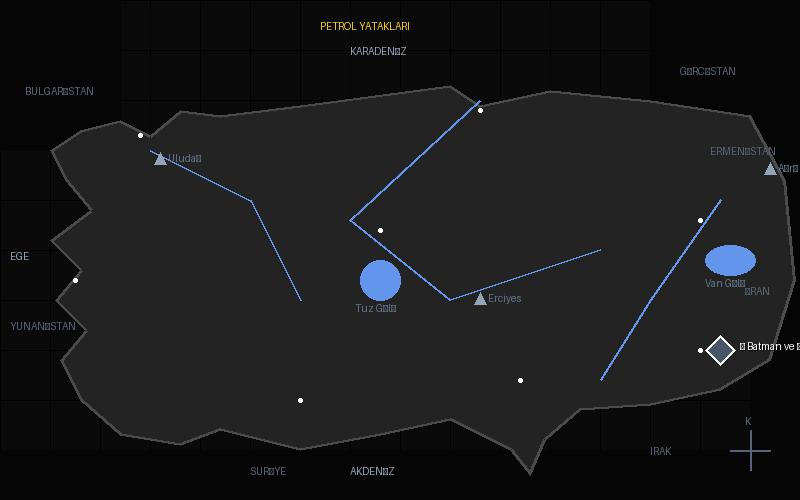
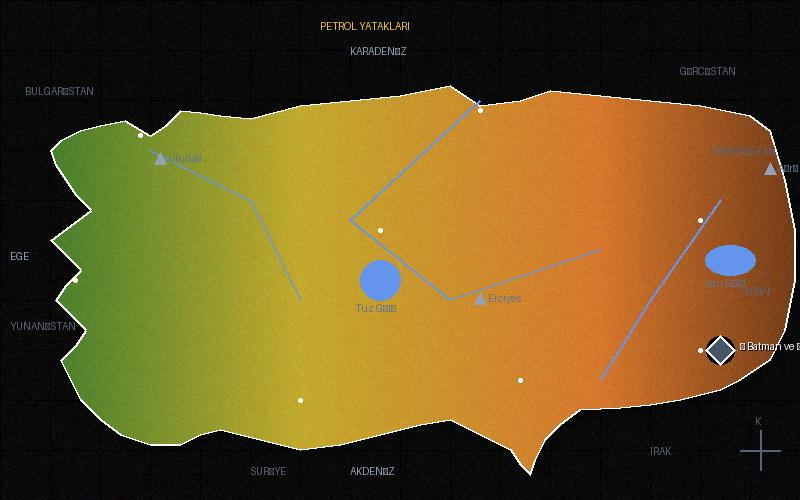
Auto-update maps: 2026-04-03 15:44:46

diff --git a/download_assets.py b/download_assets.py
@@ -1,6 +1,7 @@
 import os
 import random
-from PIL import Image, ImageDraw, ImageFont
+import numpy as np
+from PIL import Image, ImageDraw, ImageFont, ImageFilter
 
 def download_kpss_images():
     # 1. Klasörü oluştur
@@ -14,32 +15,32 @@ def download_kpss_images():
         "tr_nufus.jpg": {
             "label": "NÜFUS YOĞUNLUĞU", "marker": (150, 130), "info": "İstanbul-Kocaeli Çevresi", 
             "type": "circle", "color": (56, 189, 248),
-            "bg_color": (15, 23, 42), "land_color": (30, 41, 59) # Modern Koyu Mavi
+            "bg_color": (15, 23, 42)
         },
         "tr_delta.jpg": {
             "label": "DELTA OVALARI", "marker": (550, 400), "info": "Çukurova Bölgesi", 
             "type": "circle", "color": (34, 197, 94),
-            "bg_color": (10, 20, 15), "land_color": (20, 45, 30) # Doğa Yeşili
+            "bg_color": (10, 20, 15)
         },
         "tr_demir.jpg": {
             "label": "DEMİR MADENİ", "marker": (600, 220), "info": "Sivas-Divriği Çevresi", 
             "type": "square", "color": (249, 115, 22),
-            "bg_color": (25, 15, 15), "land_color": (55, 35, 30) # Pas/Metal Tonu
+            "bg_color": (25, 15, 15)
         },
         "tr_bor.jpg": {
             "label": "BOR REZERVLERİ", "marker": (180, 200), "info": "Güney Marmara-Eskişehir", 
             "type": "square", "color": (234, 179, 8),
-            "bg_color": (20, 20, 30), "land_color": (40, 40, 65) # Kristal Moru
+            "bg_color": (20, 20, 30)
         },
         "tr_petrol.jpg": {
             "label": "PETROL YATAKLARI", "marker": (720, 350), "info": "Batman ve Çevresi", 
             "type": "diamond", "color": (71, 85, 105),
-            "bg_color": (10, 10, 10), "land_color": (35, 35, 35) # Endüstriyel Siyah/Gri
+            "bg_color": (10, 10, 10)
         },
         "tr_iklim.jpg": {
             "label": "KARADENİZ İKLİMİ", "marker": (500, 100), "info": "Kıyı Şeridi Taranmış", 
             "type": "circle", "color": (239, 68, 68),
-            "bg_color": (15, 25, 35), "land_color": (65, 55, 45) # Toprak Tonları
+            "bg_color": (15, 25, 35)
         }
     }
 
@@ -50,14 +51,11 @@ def download_kpss_images():
             "marker": (400, 300), 
             "info": "",
             "bg_color": (15, 23, 42),
-            "land_color": (30, 41, 59)
         })
         
         bg_color = data.get("bg_color", (15, 23, 42))
-        land_color = data.get("land_color", (30, 41, 59))
         neighbor_land_color = tuple(max(0, c - 5) for c in bg_color) # Komşu ülkeler için hafif ton
         grid_color = tuple(max(0, c - 10) for c in bg_color)
-        outline_color = tuple(min(255, c + 40) for c in land_color)
 
         img = Image.new('RGB', (800, 500), color=bg_color) 
         draw = ImageDraw.Draw(img)
@@ -71,6 +69,67 @@ def download_kpss_images():
             small_font = ImageFont.truetype(font_path, 14)
         except:
             title_font = label_font = small_font = ImageFont.load_default()
+
+        # 1. Izgara (Grid)
+        for x in range(0, 800, 50): draw.line([(x, 0), (x, 500)], fill=grid_color, width=1)
+        for y in range(0, 500, 50): draw.line([(0, y), (800, y)], fill=grid_color, width=1)
+
+        # 2. Koordinatlı Türkiye Sınırları (Önce tanımlıyoruz ki aşağıda kullanabilelim)
+        # Ege girintileri ve körfezler optimize edildi
+        turkey_outline = [
+            (50, 150), (60, 140), (80, 130), (100, 125), (125, 120), (150, 135), (165, 125), (180, 110), 
+            (200, 112), (220, 115), (250, 118), (300, 105), (350, 100), (400, 95), (450, 85), (480, 105), 
+            (520, 100), (550, 90), (600, 95), (650, 100), (700, 105), (750, 115), (770, 130), (785, 180), 
+            (795, 230), (795, 280), (785, 330), (770, 360), (740, 380), (720, 390), (680, 400), (650, 405), 
+            (620, 408), (580, 410), (560, 425), (545, 440), (535, 460), (530, 475), (520, 465), (510, 450), 
+            (480, 435), (450, 420), (420, 425), (380, 435), (340, 445), (300, 450), (260, 440), (220, 430), 
+            (200, 435), (180, 445), (150, 445), (120, 435), (100, 420), (80, 400), (70, 380), (60, 360), 
+            (75, 345), (85, 330), (70, 315), (55, 300), (65, 285), (80, 270), (65, 255), (50, 240), (70, 225), 
+            (90, 210), (75, 195), (65, 180), (55, 165)
+        ]
+
+        # 1.5 Gölge Efekti (3D Relief için)
+        shadow_img = Image.new('RGBA', (800, 500), (0, 0, 0, 0))
+        shadow_draw = ImageDraw.Draw(shadow_img)
+        shadow_outline = [(x+4, y+4) for x, y in turkey_outline]
+        shadow_draw.polygon(shadow_outline, fill=(0, 0, 0, 120))
+        shadow_img = shadow_img.filter(ImageFilter.GaussianBlur(radius=5))
+        img.paste(shadow_img, (0, 0), shadow_img)
+
+        # 3. Gerçekçi Fiziki Harita Renklendirmesi (Yeşil -> Kahverengi Geçişi)
+        # Her nokta için yükselti rengi hesaplayarak dolduracağız
+        mask = Image.new('L', (800, 500), 0)
+        mask_draw = ImageDraw.Draw(mask)
+        mask_draw.polygon(turkey_outline, fill=255)
+
+        # Fiziki Harita Geçişi (Batı: Yeşil, Orta: Sarı, Doğu: Kahverengi)
+        for x in range(800):
+            # x koordinatına göre renk belirle (Basitleştirilmiş yükselti)
+            if x < 300: # Batı
+                ratio = x / 300
+                r, g, b = int(45 + 150*ratio), int(120 + 50*ratio), int(45)
+            elif x < 600: # Orta
+                ratio = (x - 300) / 300
+                r, g, b = int(195 + 20*ratio), int(170 - 50*ratio), int(45)
+            else: # Doğu
+                ratio = (x - 600) / 200
+                r, g, b = int(215 - 100*ratio), int(120 - 60*ratio), int(45 - 20*ratio)
+            
+            # Sadece Türkiye sınırları içini boya
+            for y in range(500):
+                if mask.getpixel((x, y)) == 255:
+                    img.putpixel((x, y), (r, g, b))
+
+        # 3.1 Doku ve Kabartma (Gren/Noise)
+        # study.py'de numpy olduğu için buradan faydalanıyoruz, haritaya kağıt hissi verir
+        noise = np.random.randint(-10, 10, (500, 800, 3), dtype='int16')
+        img_np = np.array(img).astype('int16')
+        img_np = np.clip(img_np + noise, 0, 255).astype('uint8')
+        img = Image.fromarray(img_np)
+        draw = ImageDraw.Draw(img)
+
+        # Sınır hattını çiz
+        draw.polygon(turkey_outline, outline=(255, 255, 255, 100), width=2)
 
         def draw_text_w_shadow(pos, text, font, fill, shadow=(0,0,0,200)):
             """Yazılara derinlik katar."""
@@ -103,29 +162,6 @@ def download_kpss_images():
             "Erciyes": (480, 300),
             "Uludağ": (160, 160)
         }
-
-        # 1. Koordinat Izgarası (Grid)
-        for x in range(0, 800, 50): draw.line([(x, 0), (x, 500)], fill=grid_color, width=1)
-        for y in range(0, 500, 50): draw.line([(0, y), (800, y)], fill=grid_color, width=1)
-
-        # 1.5 Komşu Kara Parçaları (Silüet)
-        draw.rectangle([0, 0, 120, 150], fill=neighbor_land_color) # Balkanlar
-        draw.rectangle([650, 0, 800, 150], fill=neighbor_land_color) # Kafkaslar
-        draw.rectangle([750, 150, 800, 500], fill=neighbor_land_color) # İran hattı
-        draw.rectangle([0, 450, 800, 500], fill=neighbor_land_color) # Afrika/Arap Yarımadası girişi
-
-        # 2. Geliştirilmiş Türkiye Sınırları (Detaylandırıldı)
-        turkey_outline = [
-            (50, 150), (80, 130), (120, 120), (150, 135), (180, 110), (220, 115), 
-            (300, 105), (450, 85), (480, 105), (550, 90), (650, 100), (750, 115), 
-            (785, 180), (795, 280), (770, 360), (720, 390), (650, 405), (580, 410), 
-            (545, 440), (530, 475), (510, 450), (450, 420), (380, 435), (300, 450), 
-            (220, 430), (180, 445), (120, 435), (80, 400), (60, 360), (85, 330), 
-            (55, 300), (80, 270), (50, 240), (90, 210), (65, 180)
-        ]
-        
-        # Kara parçasını doldur ve sınırı çiz
-        draw.polygon(turkey_outline, fill=land_color, outline=outline_color, width=3)
 
         # 2.5 Nehirleri Çiz
         for river in rivers:
@@ -166,17 +202,25 @@ def download_kpss_images():
         draw.text((250, 465), "SURİYE", fill=neighbor_color, font=small_font)
 
         # 3.6 Pusula (Compass Rose) - Sağ Alt
-        draw.line([(750, 430), (750, 470)], fill=neighbor_color, width=2) # N-S
-        draw.line([(730, 450), (770, 450)], fill=neighbor_color, width=2) # E-W
-        draw.text((745, 415), "K", font=small_font, fill=neighbor_color)
+        draw.line([(760, 430), (760, 470)], fill=neighbor_color, width=2) # N-S
+        draw.line([(740, 450), (780, 450)], fill=neighbor_color, width=2) # E-W
+        draw.text((755, 415), "K", font=small_font, fill=neighbor_color)
 
-        # 4. Dinamik İşaretçi Çizimi
+        # 4. Profesyonel Modern İşaretçi (Marker) Çizimi
         m_type = data.get("type", "circle")
         m_color = data.get("color", (239, 68, 68))
         mx, my = data["marker"]
 
+        # Marker Gölgesi
+        draw.ellipse([mx-14, my-14, mx+14, my+14], fill=(0, 0, 0, 80))
+
         if m_type == "circle":
-            draw.ellipse([mx-12, my-12, mx+12, my+12], fill=m_color, outline=(255, 255, 255), width=2)
+            # Parlama efekti olan bir daire
+            draw.ellipse([mx-12, my-12, mx+12, my+12], fill=m_color, outline=(255, 255, 255), width=3)
+            # İç nokta
+            draw.ellipse([mx-4, my-4, mx+4, my+4], fill=(255, 255, 255))
+            # Pulse (Hafif dış halka)
+            draw.ellipse([mx-20, my-20, mx+20, my+20], outline=m_color + (100,), width=1)
         elif m_type == "square":
             draw.rectangle([mx-12, my-12, mx+12, my+12], fill=m_color, outline=(255, 255, 255), width=2)
         elif m_type == "diamond":

diff --git a/sync.py b/sync.py
@@ -1,0 +1,48 @@
+import os
+import subprocess
+from datetime import datetime
+from download_assets import download_kpss_images
+
+def sync_to_github():
+    print("🚀 Harita üretim ve GitHub senkronizasyonu başlıyor...")
+    
+    # 1. Haritaları güncelle
+    try:
+        print("🎨 Haritalar çiziliyor (Doku ve Gölgelendirme ekleniyor)...")
+        download_kpss_images()
+        print("✅ Haritalar 'images/' klasöründe başarıyla güncellendi.")
+    except Exception as e:
+        print(f"❌ Harita üretiminde bir sorun çıktı knk: {e}")
+        return
+
+    # 2. Git komutlarını sırayla çalıştır
+    print("🌐 GitHub'a gönderiliyor...")
+    
+    # Git add
+    subprocess.run(["git", "add", "."], capture_output=True)
+    
+    # Git commit
+    timestamp = datetime.now().strftime("%Y-%m-%d %H:%M:%S")
+    commit_msg = f"Auto-update maps: {timestamp}"
+    commit_res = subprocess.run(["git", "commit", "-m", commit_msg], capture_output=True, text=True)
+    
+    if "nothing to commit" in commit_res.stdout or "working tree clean" in commit_res.stdout:
+        print("ℹ Yapılacak bir değişiklik bulunamadı (Haritalar zaten güncel).")
+    else:
+        print(f"📝 Commit atıldı: {commit_msg}")
+
+    # Git push
+    # Mevcut dalı (branch) otomatik bulalım (main veya master)
+    branch_res = subprocess.run(["git", "rev-parse", "--abbrev-ref", "HEAD"], capture_output=True, text=True)
+    branch = branch_res.stdout.strip() or "main"
+    
+    push_res = subprocess.run(["git", "push", "origin", branch], capture_output=True, text=True)
+    
+    if push_res.returncode == 0:
+        print(f"🚀 Başarıyla GitHub'a ({branch}) gönderildi knk!")
+    else:
+        print(f"❌ Push başarısız oldu:\n{push_res.stderr}")
+        print("💡 İpucu: 'git remote -v' ile bağlantını kontrol et veya GitHub token ayarlarını doğrula.")
+
+if __name__ == "__main__":
+    sync_to_github()
